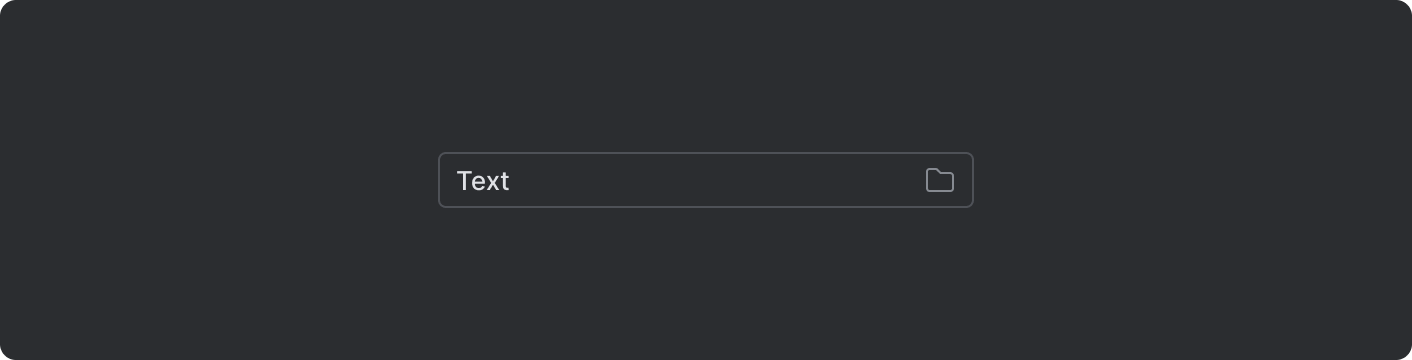
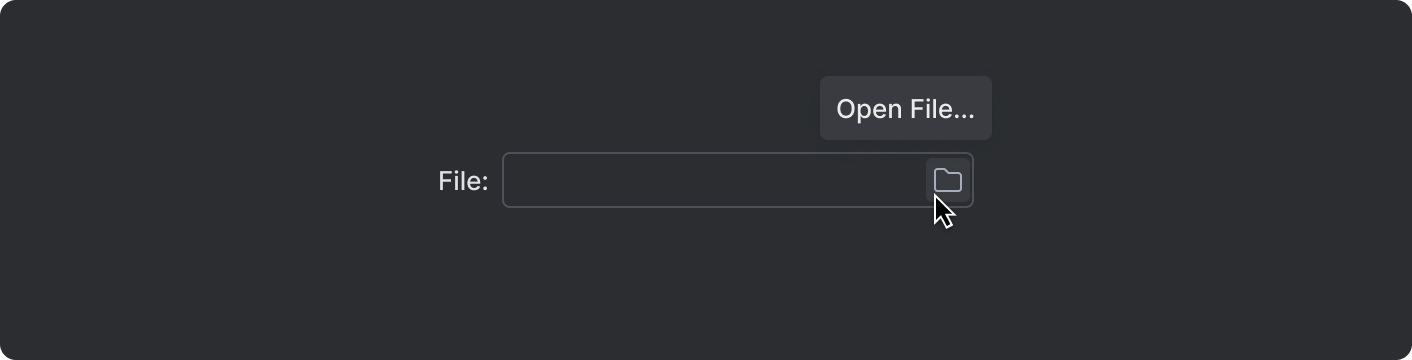
UX-2323 Update existing UI Guidelines: Built-in button

diff --git a/topics/ui/controls/built_in_button.md b/topics/ui/controls/built_in_button.md
@@ -8,29 +8,17 @@ A built-in button is an icon placed inside an input control.
 
 ![Built-in-button](built_in_button.png){width=706}
 
-## How to use
-
-Place the built-in button inside the input control. Do **not** place the built-in button on the right of a control:
-
-![](outside.png){width=250}
-
-To place a button inside a text field, use [`ExtendableTextField`](%gh-ic%/platform/platform-api/src/com/intellij/ui/components/fields/ExtendableTextField.java) and
-its `addExtension()` method.
-
-The shortcut for a built-in button is <shortcut>Shift+Enter</shortcut>.
-
-## Types
+## When to use
 
 ### Browse
-
-A browse button opens a dialog with the disk, a tree view or a table of values.
-Use a control with the browse icon for a file/folder path selected from the disk.
-
-![](input_browse.png){width=378}
+The **Browse** button opens a dialog with the disk, a tree view, or a table of values.
+Use the **Browse** icon for a file/folder path selected from the disk:
+<img src="built_in_button_browse.png" alt="Browse" width="706"/>
 
 [//]: # (An input field with browse button: [`TextFieldWithBrowseButton`]&#40;%gh-ic%/platform/platform-api/src/com/intellij/openapi/ui/TextFieldWithBrowseButton.java&#41;)
 
-A combo box with browse button:
+<chapter collapsible="true" title="Code example">
+<p>A combo box with the <control>Browse</control> button:</p>
 <tabs group="languages">
 <tab title="Kotlin" group-key="kotlin">
 
@@ -79,44 +67,77 @@ extComboBox.setEditor(new BasicComboBoxEditor() {
 
 </tab>
 </tabs>
+</chapter>
 
-Do **not** place the button on the right of the control.
 
-![](browse_buttons.png){width=250}
+### Expand a field
 
-### Expand field
-
-If the input text can be long and place is constrained, use a built-in button to expand the control
+If the input text can be long and the place is constrained,
+use the **Expand** button to expand the control
 ([`ExpandableTextField`](%gh-ic%/platform/platform-api/src/com/intellij/ui/components/fields/ExpandableTextField.java)):
 
-![](expandable_1.png){width=332}
+![Collapsed built-in button](built_in_button_collapsed.png){width=706}
 
-![](expandable_2.png){width=582}
-
-Do **not** use the Show Viewer button instead.
-
-![](input_expand.png){width=357}
+When the field is expanded, show the **Collapse** button:
+![Expanded built-in button](built_in_button_expanded.png){width=706}
 
 ### List values
 
-Use a control with the table icon to select from the list of classes, methods or environment variables:
+Use the **List** icon to select a value from the list of classes, methods, or environment variables:
 
-![](input_table.png){width=250}
-
-Use a combo box instead of the Variables button. This icon works as a combo box.
-
-![](variables_combobox.png){width=514}
+![List of values](built_in_button_list.png){width=706}
 
 ### Add value
 
-The Plus button works the same way as the Browse button.
-The only difference is that the selected value is added, instead of overwriting the existing one.
-Place the plus icon inside the control.
-![](plus.png){width=250}
+The **Plus** button works the same way as the **[Browse](#browse)** button.
+The only difference is that the selected value is added instead of overwriting the existing one.
 
-### Copy, Info
+![Add a value to the field](built_in_button_add.png){width=706}
 
-| ![](copy_button.png){width="57"} | Do not use the Copy button, the content can be selected and copied using the Cmd/Ctrl+C shortcut or the context menu. |
-|----------------------------------|-----------------------------------------------------------------------------------------------------------------------|
-| ![](info_button.png){width="57"} | Do not use the info button to open an external link. Use <a href="context_help.md">context help</a> instead.          |
-{style=none}
+## How to use
+
+Place the built-in button inside the input field. Do not place the built-in button next to the field control:
+<table style="none" border="false">
+<tr>
+<td><format color="369650" style="bold">Correct</format></td>
+<td><format color="E55765" style="bold">Incorrect</format></td>
+</tr>
+<tr>
+<td><img src="built_in_button_browse_correct.png" alt="Browse button" width="378"/></td>
+<td><img src="built_in_button_browse_incorrect.png" alt="Incorrect browse button" width="378"/></td>
+</tr>
+</table>
+
+To place a button inside a text field, use [`ExtendableTextField`](%gh-ic%/platform/platform-api/src/com/intellij/ui/components/fields/ExtendableTextField.java) and
+its `addExtension()` method.
+
+The shortcut for a built-in button is <shortcut>Shift+Enter</shortcut>.
+
+## When not to use
+
+### Cut, Copy, Paste
+Do not use the **Copy**, **Paste** or **Cut** button. Instead, make sure these actions are available on pressing <shortcut>Cmd/Ctrl+X</shortuct>, <shortcut>Cmd/Ctrl+C</shortuct>, and <shortcut>Cmd/Ctrl+V</shortuct> shortcuts or  from the context menu.
+<table style="none" border="false">
+<tr>
+<td><format color="369650" style="bold">Correct</format></td>
+<td><format color="E55765" style="bold">Incorrect</format></td>
+</tr>
+<tr>
+<td><img src="built_in_button_copy_correct.png" alt="Browse button" width="378"/></td>
+<td><img src="built_in_button_copy_incorrect.png" alt="Incorrect browse button" width="378"/></td>
+</tr>
+</table>
+
+### Help, Info
+Do not use the **Help** or **Info** buttons to open an external link or a hint. Use the [context help](context_help.md) instead.
+
+<table style="none" border="false">
+<tr>
+<td><format color="369650" style="bold">Correct</format></td>
+<td><format color="E55765" style="bold">Incorrect</format></td>
+</tr>
+<tr>
+<td><img src="built_in_button_help_correct.png" alt="Context help " width="378"/></td>
+<td><img src="built_in_button_help_incorrect.png" alt="Incorrect browse button" width="378"/></td>
+</tr>
+</table>
